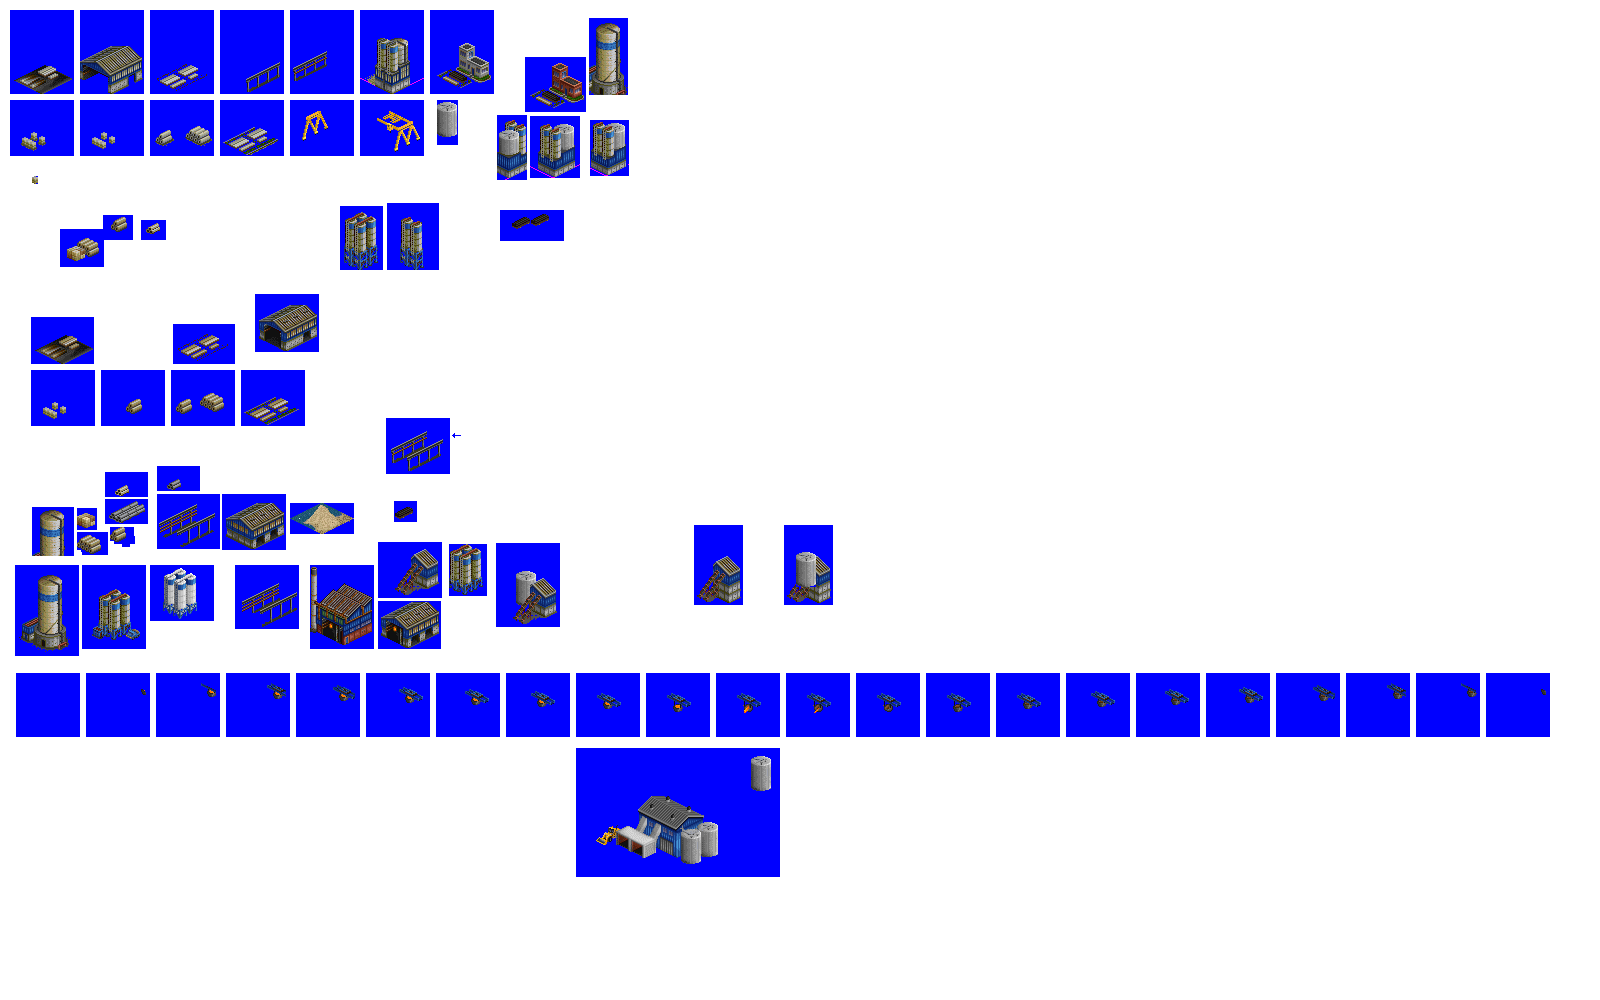
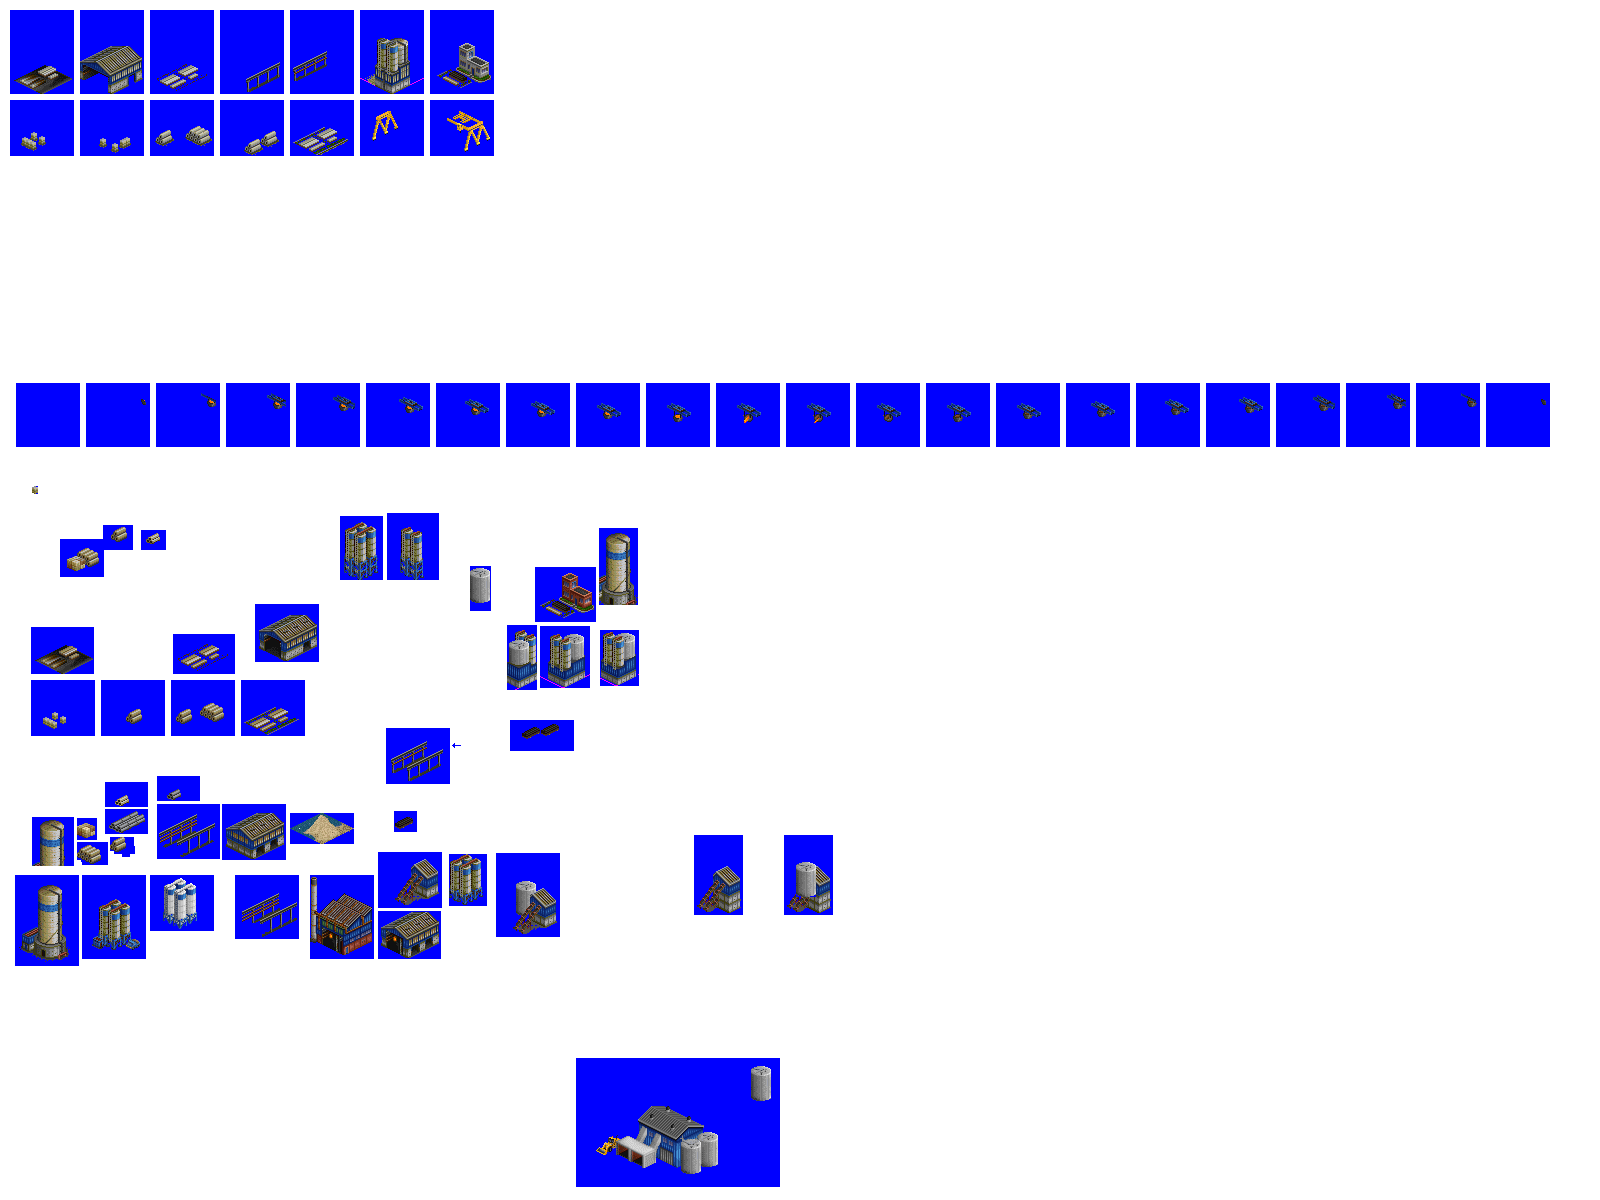
Change: more greeble and fence variety for concrete plant

Changed region(s): [[0.0, 0.186, 0.9688, 0.992], [0.0, 0.0, 0.4062, 0.248], [0.0312, 0.217, 0.125, 0.279]]

diff --git a/src/industries/concrete_plant.py b/src/industries/concrete_plant.py
@@ -67,17 +67,20 @@ blocks_1 = industry.add_spriteset(
 blocks_2 = industry.add_spriteset(
     sprites=[(80, 100, 64, 56, -31, -26)],
 )
-pipes = industry.add_spriteset(
+pipes_1 = industry.add_spriteset(
     sprites=[(150, 100, 64, 56, -31, -26)],
 )
-travelling_crane_rails_and_blocks = industry.add_spriteset(
+pipes_2 = industry.add_spriteset(
     sprites=[(220, 100, 64, 56, -31, -26)],
 )
-travelling_crane_rear = industry.add_spriteset(
+travelling_crane_rails_and_blocks = industry.add_spriteset(
     sprites=[(290, 100, 64, 56, -31, -26)],
 )
-travelling_crane_front = industry.add_spriteset(
+travelling_crane_rear = industry.add_spriteset(
     sprites=[(360, 100, 64, 56, -31, -26)],
+)
+travelling_crane_front = industry.add_spriteset(
+    sprites=[(430, 100, 64, 56, -31, -26)],
 )
 industry.add_spritelayout(
     id="concrete_plant_spritelayout_gatehouse_and_rebar",
@@ -85,7 +88,7 @@ industry.add_spritelayout(
     ground_sprite=spriteset_ground,
     ground_overlay=spriteset_ground_overlay,
     building_sprites=[gatehouse_and_rebar],
-    fences=["nw", "ne", "se", "sw"],
+    fences=["nw", "ne"],
     add_to_object_num=1,
 )
 industry.add_spritelayout(
@@ -112,15 +115,26 @@ industry.add_spritelayout(
     ground_sprite=spriteset_ground,
     ground_overlay=spriteset_ground_overlay,
     building_sprites=[overhead_crane_ground_blocks, overhead_crane_rails_rear, overhead_crane_rails_front],
+    fences=["nw", "ne", "se"],
     add_to_object_num=4,
 )
 industry.add_spritelayout(
-    id="concrete_plant_spritelayout_pipes",
+    id="concrete_plant_spritelayout_pipes_1",
     tile="concrete_plant_tile_1",
     ground_sprite=spriteset_ground,
     ground_overlay=spriteset_ground_overlay,
-    building_sprites=[pipes],
+    building_sprites=[pipes_1],
+    fences=["nw", "ne"],
     add_to_object_num=5,
+)
+industry.add_spritelayout(
+    id="concrete_plant_spritelayout_pipes_2",
+    tile="concrete_plant_tile_1",
+    ground_sprite=spriteset_ground,
+    ground_overlay=spriteset_ground_overlay,
+    building_sprites=[pipes_2],
+    fences=["se"],
+    add_to_object_num=6,
 )
 industry.add_spritelayout(
     id="concrete_plant_spritelayout_blocks_1",
@@ -128,17 +142,17 @@ industry.add_spritelayout(
     ground_sprite=spriteset_ground,
     ground_overlay=spriteset_ground_overlay,
     building_sprites=[blocks_1],
-    fences=["nw", "ne", "se", "sw"],
-    add_to_object_num=6,
+    fences=["ne", "se", "sw"],
+    add_to_object_num=7,
 )
 industry.add_spritelayout(
     id="concrete_plant_spritelayout_blocks_2",
     tile="concrete_plant_tile_1",
     ground_sprite=spriteset_ground,
     ground_overlay=spriteset_ground_overlay,
-    building_sprites=[blocks_1],
-    fences=["nw", "ne", "se", "sw"],
-    add_to_object_num=7,
+    building_sprites=[blocks_2],
+    fences=["nw", "ne", "se"],
+    add_to_object_num=8,
 )
 industry.add_spritelayout(
     id="concrete_plant_spritelayout_travelling_crane_rails_and_blocks",
@@ -146,7 +160,8 @@ industry.add_spritelayout(
     ground_sprite=spriteset_ground,
     ground_overlay=spriteset_ground_overlay,
     building_sprites=[travelling_crane_rails_and_blocks],
-    add_to_object_num=8,
+    fences=["nw", "ne", "se", "sw"],
+    add_to_object_num=9,
 )
 industry.add_spritelayout(
     id="concrete_plant_spritelayout_travelling_crane",
@@ -158,7 +173,8 @@ industry.add_spritelayout(
         travelling_crane_rails_and_blocks,
         travelling_crane_front,
     ],
-    add_to_object_num=9,
+    fences=["nw", "ne", "se", "sw"],
+    add_to_object_num=10,
 )
 
 # this industry needs outpost layout as there are lots of cargos
@@ -183,7 +199,7 @@ industry.add_industry_outpost_layout(
         (
             1,
             1,
-            "concrete_plant_spritelayout_pipes",
+            "concrete_plant_spritelayout_pipes_1",
         ),
         (
             2,
@@ -218,7 +234,7 @@ industry.add_industry_outpost_layout(
         (
             1,
             0,
-            "concrete_plant_spritelayout_pipes",
+            "concrete_plant_spritelayout_pipes_1",
         ),
         (
             1,
@@ -238,8 +254,8 @@ industry.add_industry_layout(
     id="concrete_plant_industry_layout_1",
     layout=[
         (0, 0, "concrete_plant_spritelayout_silo_1"),
-        (0, 1, "concrete_plant_spritelayout_pipes"),
-        (0, 2, "concrete_plant_spritelayout_pipes"),
+        (0, 1, "concrete_plant_spritelayout_pipes_1"),
+        (0, 2, "concrete_plant_spritelayout_pipes_2"),
         (1, 0, "concrete_plant_spritelayout_shed_1"),
         (1, 1, "concrete_plant_spritelayout_shed_1"),
         (1, 2, "concrete_plant_spritelayout_travelling_crane_rails_and_blocks"),
@@ -251,7 +267,7 @@ industry.add_industry_layout(
         (3, 2, "concrete_plant_spritelayout_travelling_crane_rails_and_blocks"),
         (4, 0, "concrete_plant_spritelayout_gatehouse_and_rebar"),
         (4, 1, "concrete_plant_spritelayout_blocks_1"),
-        (4, 2, "concrete_plant_spritelayout_blocks_1"),
+        (4, 2, "concrete_plant_spritelayout_blocks_2"),
     ],
 )
 industry.add_industry_layout(
@@ -263,26 +279,26 @@ industry.add_industry_layout(
         (0, 3, "concrete_plant_spritelayout_shed_1"),
         (0, 4, "concrete_plant_spritelayout_gatehouse_and_rebar"),
         (1, 0, "concrete_plant_spritelayout_travelling_crane"),
-        (1, 1, "concrete_plant_spritelayout_blocks_1"),
+        (1, 1, "concrete_plant_spritelayout_blocks_2"),
         (1, 2, "concrete_plant_spritelayout_shed_1"),
         (1, 3, "concrete_plant_spritelayout_shed_1"),
-        (1, 4, "concrete_plant_spritelayout_pipes"),
+        (1, 4, "concrete_plant_spritelayout_pipes_1"),
         (2, 0, "concrete_plant_spritelayout_travelling_crane_rails_and_blocks"),
         (2, 1, "concrete_plant_spritelayout_blocks_1"),
-        (2, 2, "concrete_plant_spritelayout_blocks_1"),
+        (2, 2, "concrete_plant_spritelayout_blocks_2"),
         (2, 3, "concrete_plant_spritelayout_overhead_crane_1"),
-        (2, 4, "concrete_plant_spritelayout_pipes"),
+        (2, 4, "concrete_plant_spritelayout_pipes_2"),
     ],
 )
 industry.add_industry_layout(
     id="concrete_plant_industry_layout_3",
     layout=[
-        (0, 0, "concrete_plant_spritelayout_pipes"),
-        (0, 1, "concrete_plant_spritelayout_pipes"),
-        (0, 2, "concrete_plant_spritelayout_gatehouse_and_rebar"),
+        (0, 0, "concrete_plant_spritelayout_blocks_1"),
+        (0, 1, "concrete_plant_spritelayout_gatehouse_and_rebar"),
+        (0, 2, "concrete_plant_spritelayout_pipes_1"),
         (1, 0, "concrete_plant_spritelayout_silo_1"),
         (1, 1, "concrete_plant_spritelayout_shed_1"),
-        (1, 2, "concrete_plant_spritelayout_blocks_1"),
+        (1, 2, "concrete_plant_spritelayout_pipes_2"),
         (2, 0, "concrete_plant_spritelayout_shed_1"),
         (2, 1, "concrete_plant_spritelayout_shed_1"),
         (2, 2, "concrete_plant_spritelayout_travelling_crane_rails_and_blocks"),
@@ -290,28 +306,28 @@ industry.add_industry_layout(
         (3, 1, "concrete_plant_spritelayout_overhead_crane_1"),
         (3, 2, "concrete_plant_spritelayout_travelling_crane"),
         (4, 0, "concrete_plant_spritelayout_blocks_1"),
-        (4, 1, "concrete_plant_spritelayout_travelling_crane_rails_and_blocks"),
+        (4, 1, "concrete_plant_spritelayout_blocks_2"),
         (4, 2, "concrete_plant_spritelayout_travelling_crane_rails_and_blocks"),
     ],
 )
 industry.add_industry_layout(
     id="concrete_plant_industry_layout_4",
     layout=[
-        (0, 0, "concrete_plant_spritelayout_pipes"),
+        (0, 0, "concrete_plant_spritelayout_pipes_1"),
         (0, 1, "concrete_plant_spritelayout_silo_1"),
-        (0, 2, "concrete_plant_spritelayout_blocks_1"),
-        (0, 3, "concrete_plant_spritelayout_gatehouse_and_rebar"),
+        (0, 2, "concrete_plant_spritelayout_pipes_1"),
+        (0, 3, "concrete_plant_spritelayout_pipes_2"),
         (1, 0, "concrete_plant_spritelayout_shed_1"),
         (1, 1, "concrete_plant_spritelayout_shed_1"),
         (1, 2, "concrete_plant_spritelayout_travelling_crane_rails_and_blocks"),
-        (1, 3, "concrete_plant_spritelayout_pipes"),
+        (1, 3, "concrete_plant_spritelayout_gatehouse_and_rebar"),
         (2, 0, "concrete_plant_spritelayout_shed_1"),
         (2, 1, "concrete_plant_spritelayout_shed_1"),
         (2, 2, "concrete_plant_spritelayout_travelling_crane"),
-        (2, 3, "concrete_plant_spritelayout_pipes"),
+        (2, 3, "concrete_plant_spritelayout_pipes_2"),
         (3, 0, "concrete_plant_spritelayout_blocks_1"),
         (3, 1, "concrete_plant_spritelayout_overhead_crane_1"),
         (3, 2, "concrete_plant_spritelayout_travelling_crane_rails_and_blocks"),
-        (3, 3, "concrete_plant_spritelayout_blocks_1"),
+        (3, 3, "concrete_plant_spritelayout_blocks_2"),
     ],
 )
